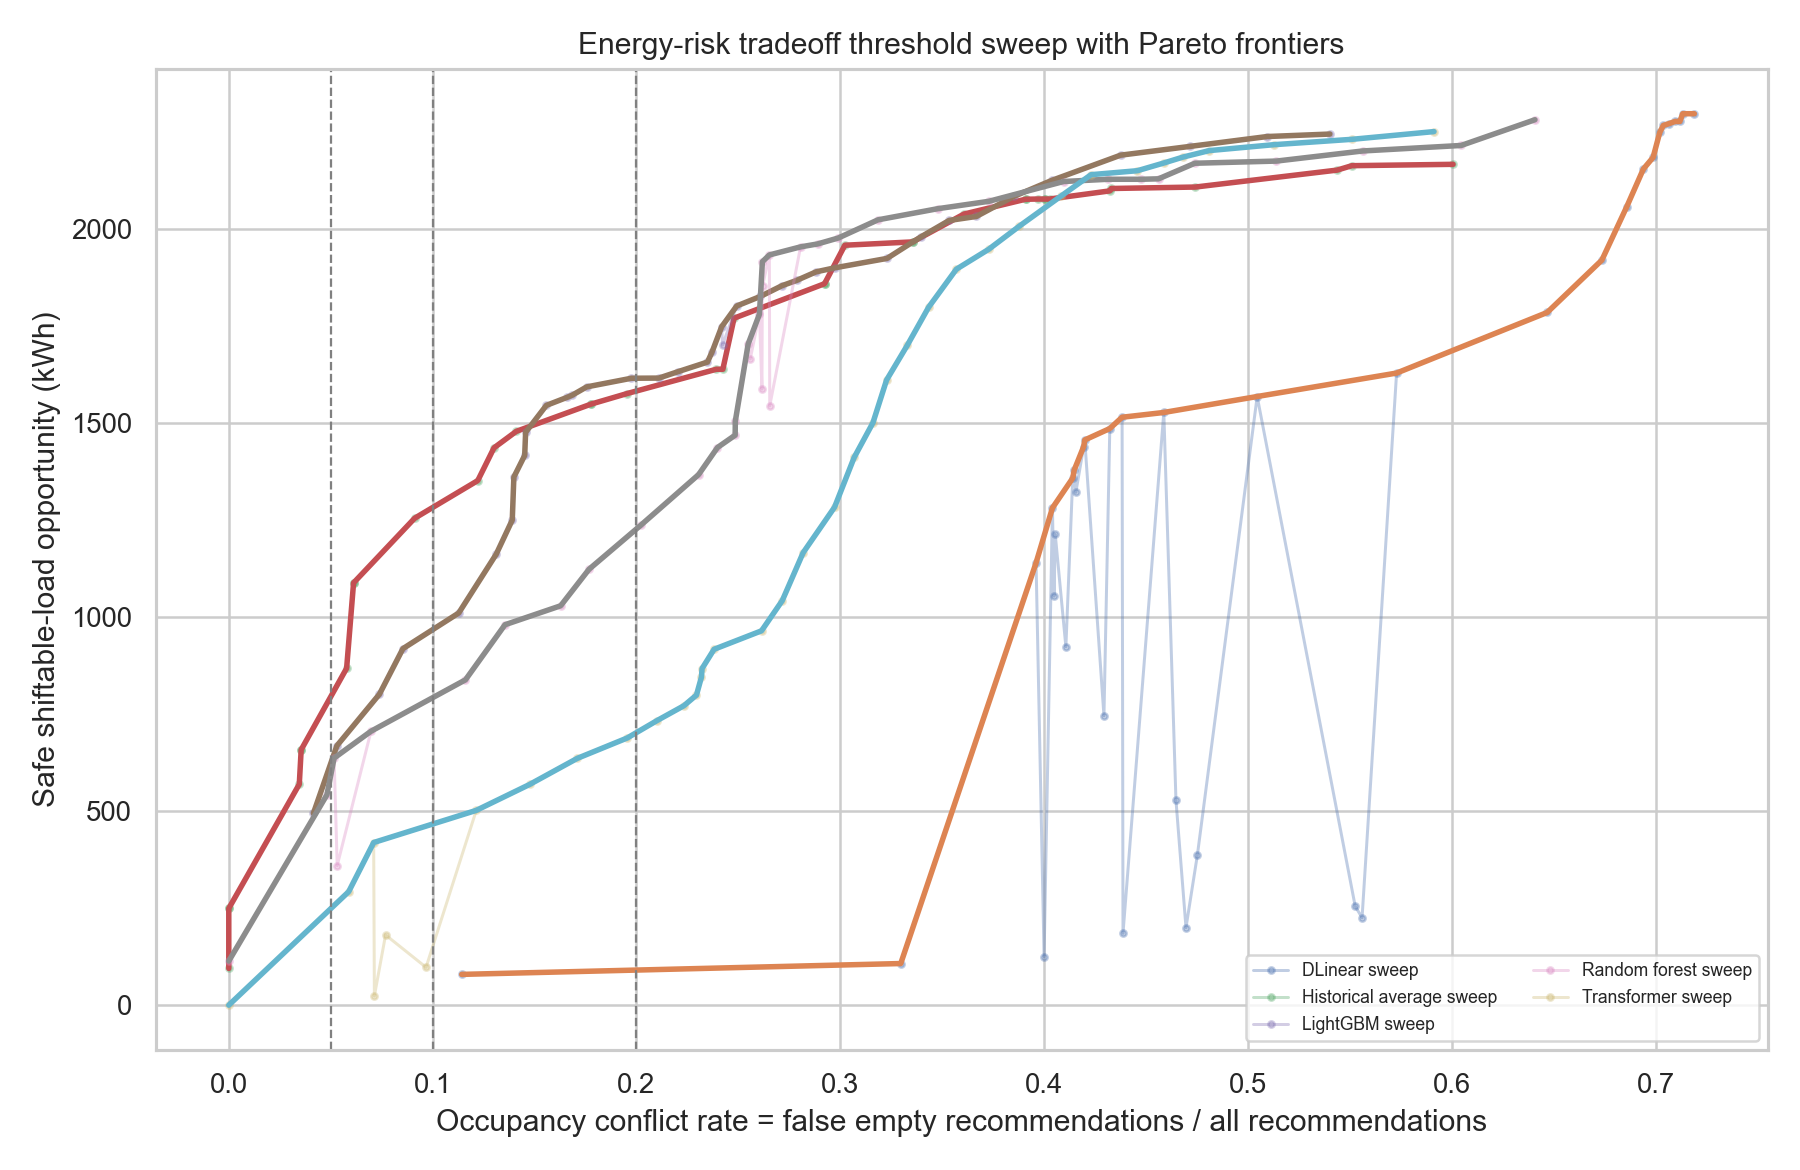
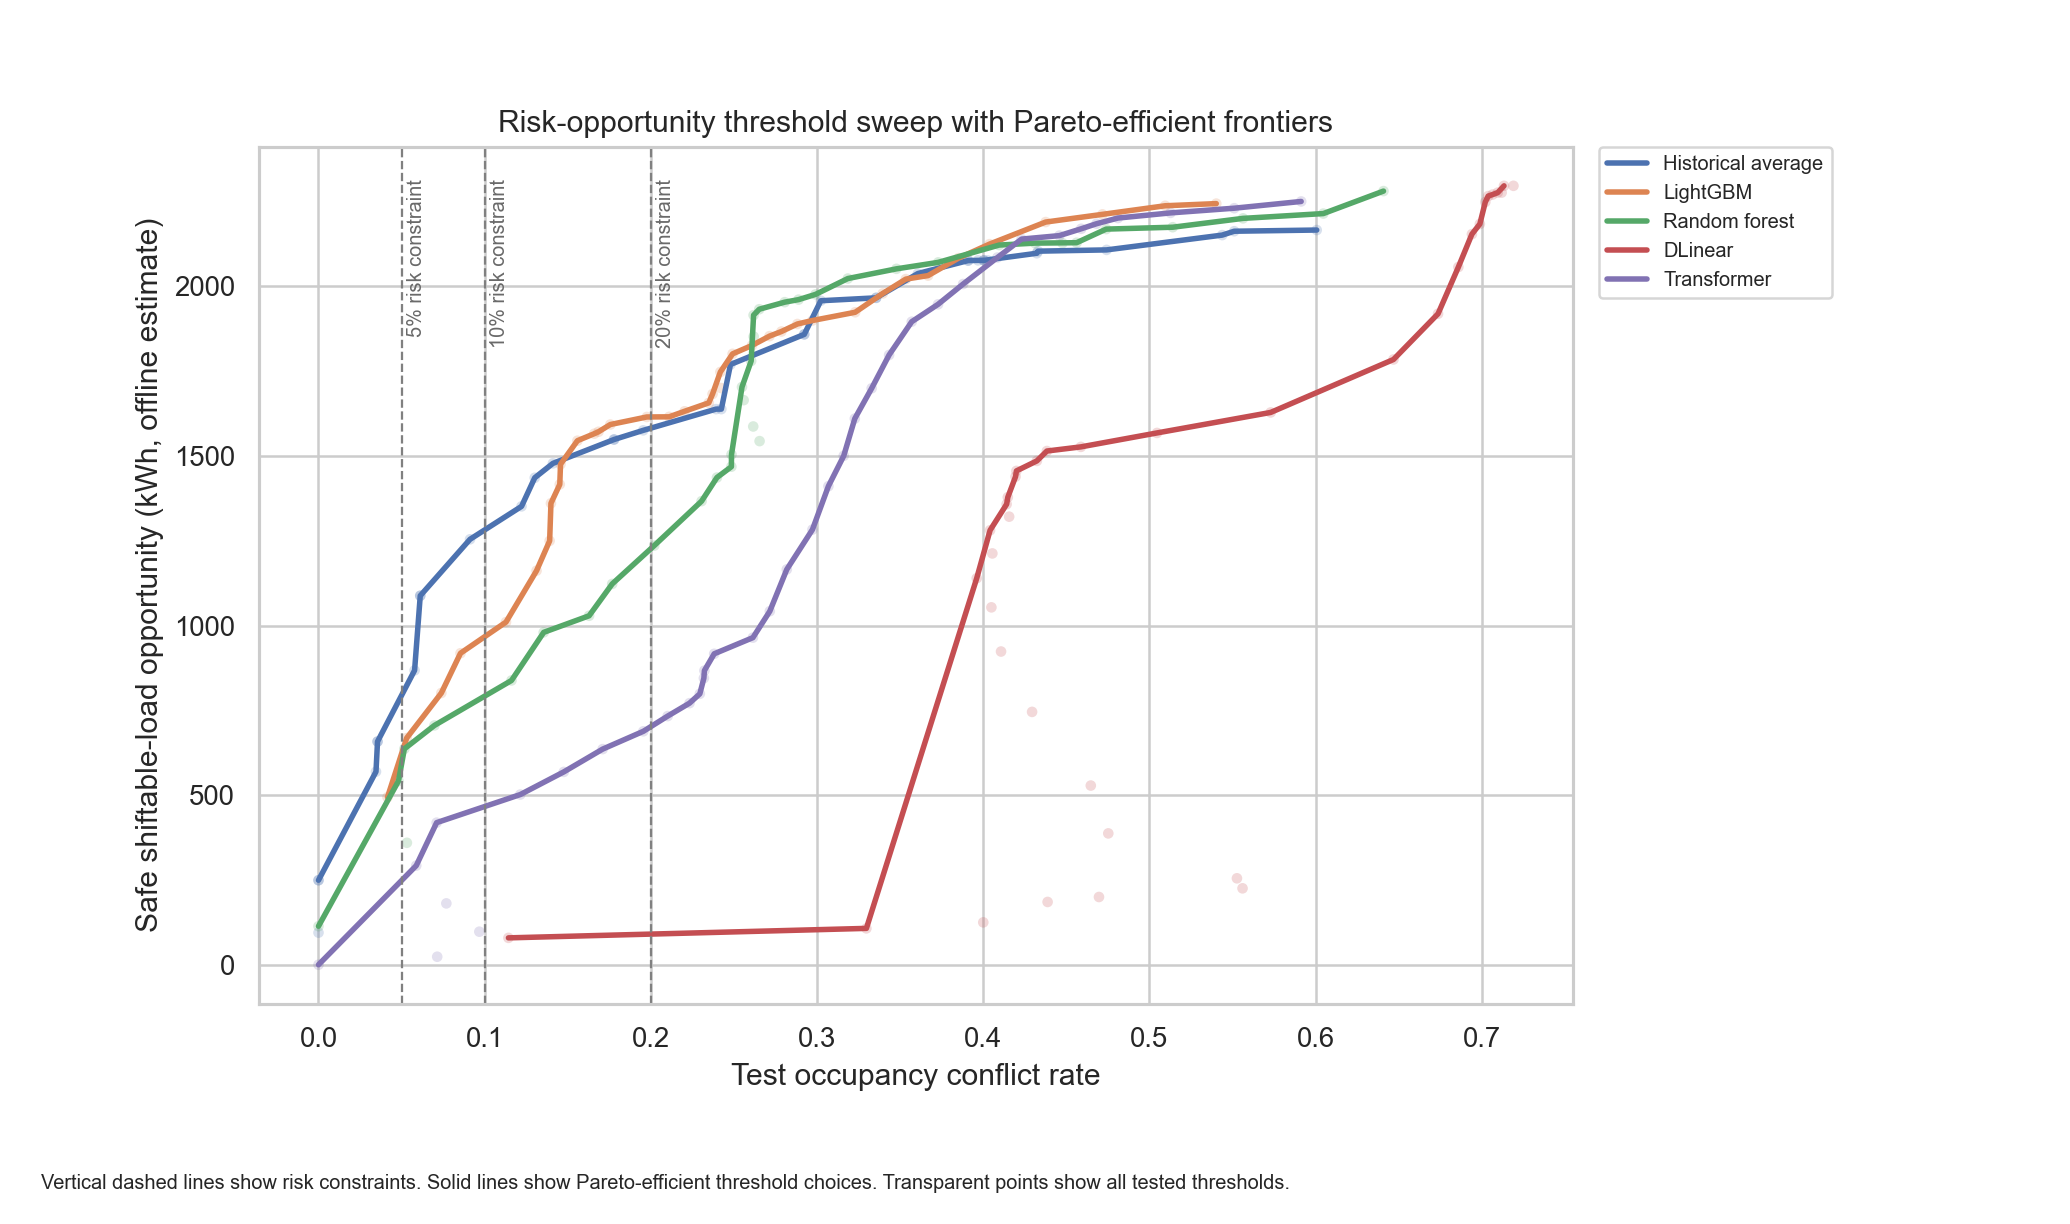
visual fix

diff --git a/src/figure_generation.py b/src/figure_generation.py
@@ -10,6 +10,7 @@ import pandas as pd
 import seaborn as sns
 from sklearn.calibration import calibration_curve
 from sklearn.metrics import average_precision_score, precision_recall_curve, roc_auc_score, roc_curve
+from matplotlib.lines import Line2D
 
 from src.recommendation_policy import stable_empty_mask
 
@@ -44,6 +45,18 @@ def _model_name_from_slug(slug: str, model_names: list[str]) -> str:
         "transformer": "Transformer",
     }
     return lookup.get(slug, fallback.get(slug, slug.replace("_", " ").title()))
+
+
+def _pareto_efficient_frontier(part: pd.DataFrame) -> pd.DataFrame:
+    """Return non-dominated points for minimizing conflict and maximizing opportunity."""
+    x_col = "occupancy_conflict_rate"
+    y_col = "safe_shiftable_load_opportunity_kwh"
+    ordered = part.sort_values([x_col, y_col], ascending=[True, False]).copy()
+    ordered = ordered.drop_duplicates(subset=[x_col], keep="first")
+    previous_best = ordered[y_col].cummax().shift(fill_value=-np.inf)
+    frontier = ordered[ordered[y_col] > previous_best].copy()
+    frontier["pareto_frontier"] = True
+    return frontier
 
 
 def _prediction_matrices(results_dir: Path, split: str = "test") -> tuple[np.ndarray, dict[str, np.ndarray], pd.DataFrame]:
@@ -113,22 +126,87 @@ def _plot_sweeps(results_dir: Path, figures_dir: Path) -> list[Path]:
     paths = []
     sweep = _maybe_read_csv(results_dir / "energy_risk_tradeoff_threshold_sweep.csv")
     if sweep is not None:
+        selected_thresholds = _maybe_read_csv(results_dir / "selected_threshold_policies.csv")
+        selected_test = _maybe_read_csv(results_dir / "threshold_policy_results_test.csv")
+        selected = None
+        if selected_thresholds is not None and selected_test is not None:
+            selected = selected_thresholds[
+                [
+                    "model",
+                    "risk_delta",
+                    "selected_empty_probability_threshold",
+                    "validation_occupancy_conflict_rate",
+                ]
+            ].merge(
+                selected_test[
+                    [
+                        "model",
+                        "risk_delta",
+                        "occupancy_conflict_rate",
+                        "safe_shiftable_load_opportunity_kwh",
+                    ]
+                ],
+                on=["model", "risk_delta"],
+                how="inner",
+            )
+            selected = selected.rename(
+                columns={
+                    "risk_delta": "validation_constraint",
+                    "occupancy_conflict_rate": "test_conflict_rate",
+                    "safe_shiftable_load_opportunity_kwh": "test_safe_opportunity_kwh",
+                }
+            )
+            selected["test_constraint_result"] = np.where(
+                selected["test_conflict_rate"] <= selected["validation_constraint"],
+                "pass",
+                "test violation",
+            )
+            selected.to_csv(results_dir / "validation_selected_policy_test_outcomes.csv", index=False, encoding="utf-8-sig")
         pareto_rows = []
-        plt.figure(figsize=(10, 6.5))
+        fig, ax = plt.subplots(figsize=(11.5, 6.8))
+        palette = dict(zip(sweep["model"].drop_duplicates(), sns.color_palette(n_colors=sweep["model"].nunique())))
         for model, part in sweep.groupby("model"):
-            part = part.sort_values("occupancy_conflict_rate")
-            plt.plot(part["occupancy_conflict_rate"], part["safe_shiftable_load_opportunity_kwh"], marker="o", markersize=2.5, linewidth=1.2, alpha=0.35, label=f"{model} sweep")
-            frontier = part.loc[part["safe_shiftable_load_opportunity_kwh"].cummax() == part["safe_shiftable_load_opportunity_kwh"]].copy()
-            frontier["pareto_frontier"] = True
+            color = palette[model]
+            part = part.sort_values(["occupancy_conflict_rate", "safe_shiftable_load_opportunity_kwh"], ascending=[True, False])
+            ax.scatter(
+                part["occupancy_conflict_rate"],
+                part["safe_shiftable_load_opportunity_kwh"],
+                s=18,
+                alpha=0.22,
+                color=color,
+                edgecolors="none",
+            )
+            frontier = _pareto_efficient_frontier(part)
             pareto_rows.append(frontier)
-            plt.plot(frontier["occupancy_conflict_rate"], frontier["safe_shiftable_load_opportunity_kwh"], linewidth=2.2)
-        for delta in [0.05, 0.10, 0.20]:
-            plt.axvline(delta, color="gray", linestyle="--", linewidth=0.9)
-        plt.xlabel("Occupancy conflict rate = false empty recommendations / all recommendations")
-        plt.ylabel("Safe shiftable-load opportunity (kWh)")
-        plt.title("Energy-risk tradeoff threshold sweep with Pareto frontiers")
-        plt.legend(fontsize=7, ncol=2)
-        paths.append(_save_fig(figures_dir / "energy_risk_tradeoff_pareto.png"))
+            ax.plot(
+                frontier["occupancy_conflict_rate"],
+                frontier["safe_shiftable_load_opportunity_kwh"],
+                color=color,
+                linewidth=2.2,
+                label=model,
+            )
+        for delta, label in [(0.05, "5% risk constraint"), (0.10, "10% risk constraint"), (0.20, "20% risk constraint")]:
+            ax.axvline(delta, color="gray", linestyle="--", linewidth=0.9)
+            ax.text(delta + 0.003, ax.get_ylim()[1] * 0.96, label, fontsize=8, color="dimgray", rotation=90, va="top")
+        ax.set_xlabel("Test occupancy conflict rate")
+        ax.set_ylabel("Safe shiftable-load opportunity (kWh, offline estimate)")
+        ax.set_title("Risk-opportunity threshold sweep with Pareto-efficient frontiers")
+        model_handles = [Line2D([0], [0], color=color, linewidth=2.2, label=model) for model, color in palette.items()]
+        ax.legend(
+            handles=model_handles,
+            loc="upper left",
+            bbox_to_anchor=(1.02, 1.0),
+            borderaxespad=0,
+            fontsize=8,
+        )
+        caption = "Vertical dashed lines show risk constraints. Solid lines show Pareto-efficient threshold choices. Transparent points show all tested thresholds."
+        fig.text(0.02, 0.025, caption, ha="left", va="bottom", fontsize=8)
+        fig.subplots_adjust(right=0.76, bottom=0.18)
+        path = figures_dir / "energy_risk_tradeoff_pareto.png"
+        path.parent.mkdir(parents=True, exist_ok=True)
+        fig.savefig(path, dpi=180)
+        plt.close(fig)
+        paths.append(path)
         if pareto_rows:
             pd.concat(pareto_rows, ignore_index=True).to_csv(results_dir / "energy_risk_pareto_frontier.csv", index=False, encoding="utf-8-sig")
     return paths

diff --git a/src/lbnl_pipeline.py b/src/lbnl_pipeline.py
@@ -16,6 +16,7 @@ import time
 import warnings
 from dataclasses import asdict, dataclass
 from pathlib import Path
+from matplotlib.lines import Line2D
 import matplotlib.pyplot as plt
 import numpy as np
 import pandas as pd
@@ -766,6 +767,16 @@ def evaluate_selected_policies(selected_df, pred_dict, anchors, y_occ, cfg, spli
 def slugify_model_name(name):
     return ''.join(ch.lower() if ch.isalnum() else '_' for ch in str(name)).strip('_')
 
+def pareto_efficient_frontier(part):
+    x_col = 'occupancy_conflict_rate'
+    y_col = 'safe_shiftable_load_opportunity_kwh'
+    ordered = part.sort_values([x_col, y_col], ascending=[True, False]).copy()
+    ordered = ordered.drop_duplicates(subset=[x_col], keep='first')
+    previous_best = ordered[y_col].cummax().shift(fill_value=-np.inf)
+    frontier = ordered[ordered[y_col] > previous_best].copy()
+    frontier['pareto_frontier'] = True
+    return frontier
+
 def save_all_model_predictions(split_name, anchors, y_occ, pred_dict):
     pos = future_positions(anchors, cfg.horizon_steps)
     out = pd.DataFrame({
@@ -953,22 +964,54 @@ def generate_figures_from_pipeline_state(show: bool = False):
     plt.legend(fontsize=8, loc='lower left')
     save_fig(Path(cfg.figure_dir) / 'horizon_bucket_empty_auprc.png')
     pareto_rows = []
-    plt.figure(figsize=(10, 6.5))
+    fig, ax = plt.subplots(figsize=(11.5, 6.5))
+    palette = dict(zip(test_sweep_df['model'].drop_duplicates(), sns.color_palette(n_colors=test_sweep_df['model'].nunique())))
     for model, part in test_sweep_df.groupby('model'):
-        part = part.sort_values('occupancy_conflict_rate')
-        plt.plot(part['occupancy_conflict_rate'], part['safe_shiftable_load_opportunity_kwh'], marker='o', markersize=2.5, linewidth=1.2, alpha=0.35, label=f'{model} sweep')
-        frontier = part.loc[part['safe_shiftable_load_opportunity_kwh'].cummax() == part['safe_shiftable_load_opportunity_kwh']].copy()
-        frontier['pareto_frontier'] = True
+        color = palette[model]
+        part = part.sort_values(['occupancy_conflict_rate', 'safe_shiftable_load_opportunity_kwh'], ascending=[True, False])
+        ax.scatter(part['occupancy_conflict_rate'], part['safe_shiftable_load_opportunity_kwh'], s=18, alpha=0.22, color=color, edgecolors='none')
+        frontier = pareto_efficient_frontier(part)
         pareto_rows.append(frontier)
-        plt.plot(frontier['occupancy_conflict_rate'], frontier['safe_shiftable_load_opportunity_kwh'], linewidth=2.2)
+        ax.plot(frontier['occupancy_conflict_rate'], frontier['safe_shiftable_load_opportunity_kwh'], color=color, linewidth=2.2, label=model)
+    marker_by_delta = {0.05: 'o', 0.10: 's', 0.20: 'D'}
+    for _, row in policy_results_df[policy_results_df['risk_delta'].isin(marker_by_delta)].iterrows():
+        model = row['model']
+        if model not in palette:
+            continue
+        ax.scatter(
+            row['occupancy_conflict_rate'],
+            row['safe_shiftable_load_opportunity_kwh'],
+            s=95,
+            marker=marker_by_delta[float(row['risk_delta'])],
+            color=palette[model],
+            edgecolors='black',
+            linewidths=0.8,
+            zorder=5,
+        )
     for delta in cfg.risk_deltas:
-        plt.axvline(delta, color='gray', linestyle='--', linewidth=0.9)
-        plt.text(delta + 0.004, plt.ylim()[1] * 0.95, f'{delta:.0%}', fontsize=8)
-    plt.xlabel('Occupancy conflict rate = false empty recommendations / all recommendations')
-    plt.ylabel('Safe shiftable-load opportunity (kWh)')
-    plt.title('Energy-risk tradeoff threshold sweep with Pareto frontiers')
-    plt.legend(fontsize=7, ncol=2)
-    save_fig(Path(cfg.figure_dir) / 'energy_risk_tradeoff_pareto.png')
+        ax.axvline(delta, color='gray', linestyle='--', linewidth=0.9)
+    ax.set_xlabel('Occupancy conflict rate = false empty recommendations / all recommendations')
+    ax.set_ylabel('Safe shiftable-load opportunity (kWh, offline estimate)')
+    ax.set_title('Risk-opportunity threshold sweep with Pareto-efficient frontiers')
+    model_handles = [Line2D([0], [0], color=color, linewidth=2.2, label=model) for model, color in palette.items()]
+    marker_handles = [
+        Line2D([0], [0], marker=marker, color='black', linestyle='None', markersize=8, label=f'Selected {delta:.0%}')
+        for delta, marker in [(0.05, 'o'), (0.10, 's'), (0.20, 'D')]
+    ]
+    ax.legend(handles=model_handles + marker_handles, title='Solid lines and selected policies', loc='upper left', bbox_to_anchor=(1.02, 1.0), borderaxespad=0, fontsize=8, title_fontsize=9)
+    fig.text(
+        0.02,
+        0.02,
+        'Raw dots = all threshold sweep points. Solid line = Pareto-efficient frontier after filtering dominated points. Large markers = validation-selected thresholds evaluated on held-out test days. Vertical dashed lines = risk constraints.',
+        ha='left',
+        va='bottom',
+        fontsize=8,
+    )
+    fig.subplots_adjust(right=0.74, bottom=0.20)
+    path = Path(cfg.figure_dir) / 'energy_risk_tradeoff_pareto.png'
+    path.parent.mkdir(parents=True, exist_ok=True)
+    fig.savefig(path, dpi=180)
+    plt.close(fig)
     pareto_frontier_df = pd.concat(pareto_rows, ignore_index=True) if pareto_rows else pd.DataFrame()
     pareto_frontier_df.to_csv(Path(cfg.result_dir) / 'energy_risk_pareto_frontier.csv', index=False, encoding='utf-8-sig')
     policy_plot = policy_results_df.copy()
